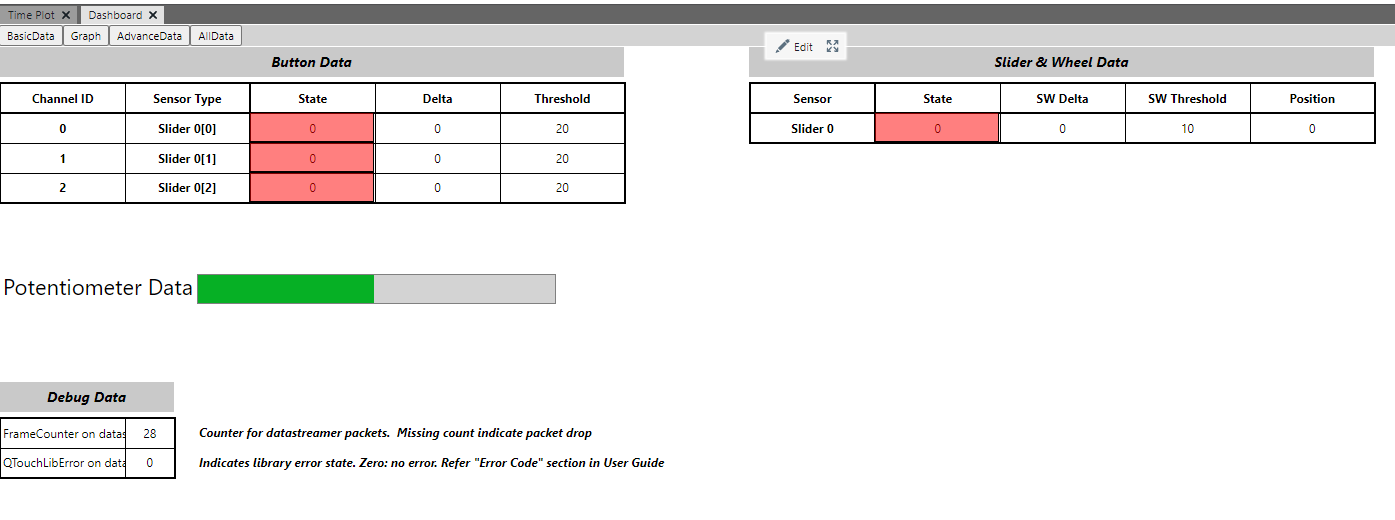
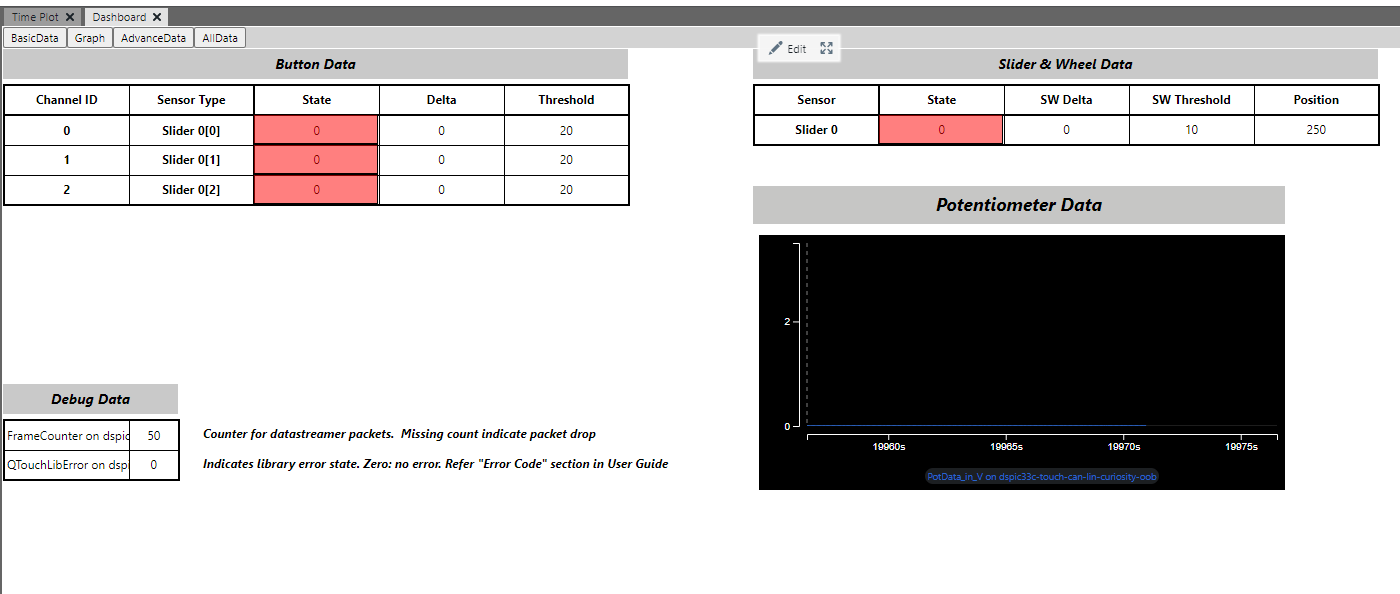
updated potentiometer data as graph from slider

diff --git a/dspic33c-touch-can-lin-curiosity-oob.X/mcc_generated_files/touch/datastreamer/datastreamer.c b/dspic33c-touch-can-lin-curiosity-oob.X/mcc_generated_files/touch/datastreamer/datastreamer.c
@@ -78,6 +78,10 @@ void datastreamer_output(void)
 	int16_t           i, temp_int_calc;
     static uint8_t sequence = 0u;
     uint16_t u16temp_output;
+    union {
+        float tempInFloat;
+        uint8_t tempInBytes[4];
+    } tempFloatnBytes;
 	uint8_t           u8temp_output, send_header;
 	volatile uint16_t count_bytes_out;
 
@@ -172,9 +176,11 @@ void datastreamer_output(void)
 
     
     datastreamer_transmit(0);
-    u16temp_output = POT_PositionGet();
-    datastreamer_transmit((uint8_t)(u16temp_output & 0x00FFu));
-    datastreamer_transmit((uint8_t)((u16temp_output & 0xFF00u) >> 8u));
+    tempFloatnBytes.tempInFloat = POT_VoltageGet();
+    datastreamer_transmit((uint8_t)(tempFloatnBytes.tempInBytes[0]));
+    datastreamer_transmit((uint8_t)(tempFloatnBytes.tempInBytes[1]));
+    datastreamer_transmit((uint8_t)(tempFloatnBytes.tempInBytes[2]));
+    datastreamer_transmit((uint8_t)(tempFloatnBytes.tempInBytes[3]));
     datastreamer_transmit(sequence++);
 
     // End token
